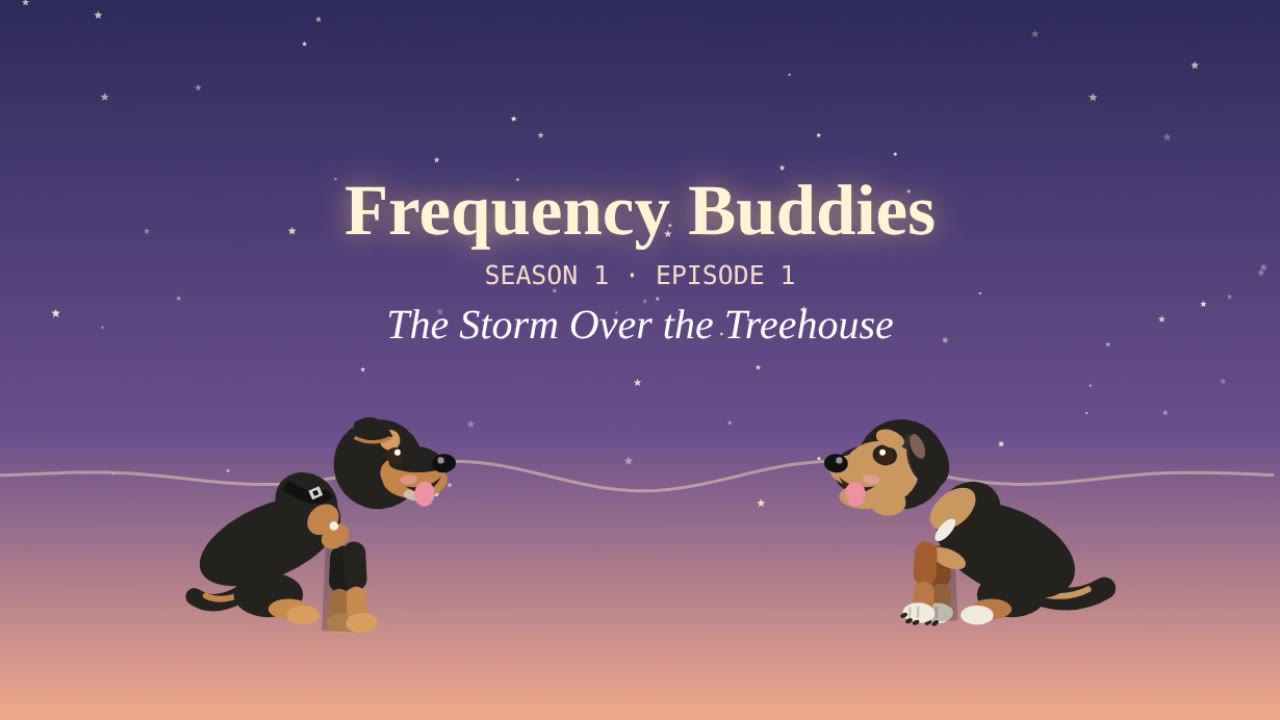
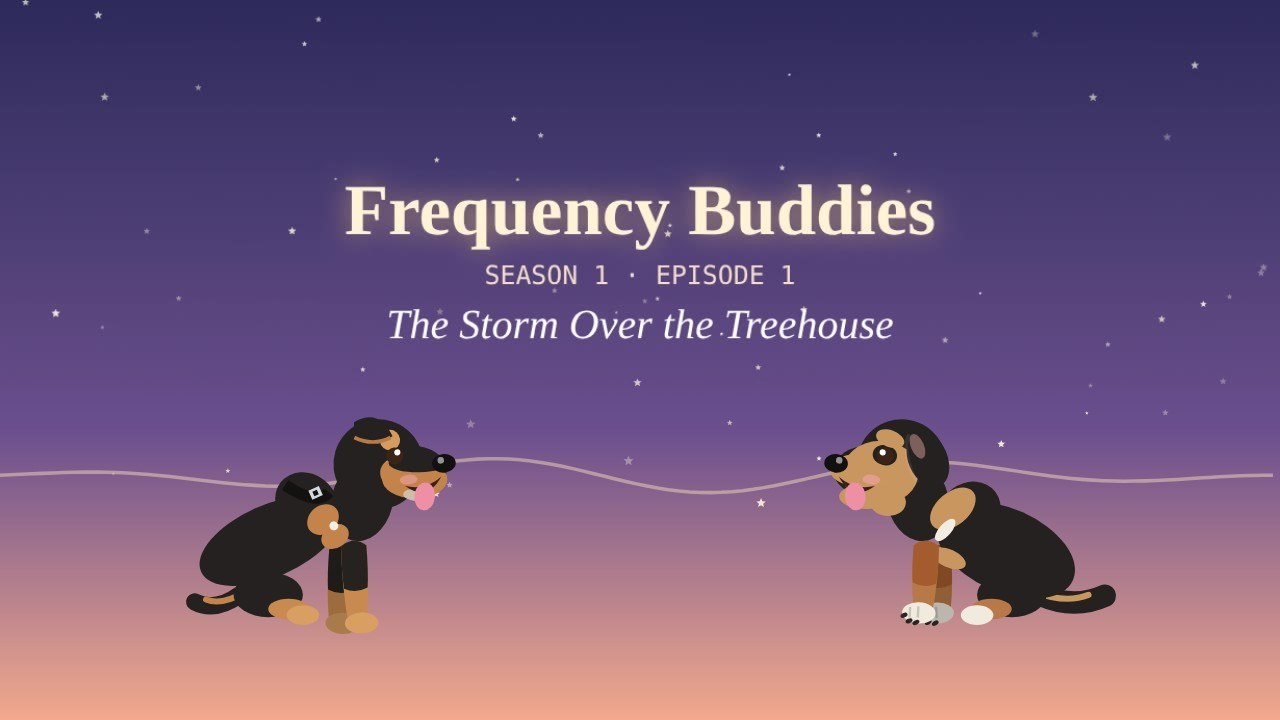
Cartoon pups smooth everywhere they appear and interact
pups.js (and its copy in night-garden.js): each leg is one soft tapered shape
with a curved sock line instead of two stacked tubes; the far legs are a
shade darker (no grey box behind them); a sitting pup has a neck so the head
sits on the body smoothly. This drawing runs the episodes, pal cam, games,
coin pusher, launch screen, app ad, Bears Dojo, start pages and the Night
Garden. Saved pictures redrawn from it: Season 1 and Season 2 posters, pal
cam poster, Get the app share image, and the home page pups (now lying apart,
not nose to nose). sw tol-v192.

Claude-Session: https://claude.ai/code/session_01F11x81sfGg3qnfmPYFW4i1

diff --git a/assets/js/night-garden.js b/assets/js/night-garden.js
@@ -1511,15 +1511,20 @@
     var lean = L.build === 'lean', LL = lean ? 15 : 12.5, BRX = lean ? 18.5 : 18, BRY = lean ? 8.8 : 10.2, BY = lean ? -21 : -18.5;
     function leg(x0, y0, ang, len, back) {
       ctx.save(); ctx.translate(x0, y0); ctx.rotate(ang);
-      var up = len * 0.5;
-      ctx.fillStyle = L.legUp; ctx.beginPath(); ctx.roundRect ? ctx.roundRect(-2.8, -2, 5.6, up + 3, 2.8) : ctx.rect(-2.8, -2, 5.6, up + 3); ctx.fill();
-      ctx.fillStyle = L.legLow; ctx.beginPath(); ctx.roundRect ? ctx.roundRect(-2.5, up, 5, len - up, 2.5) : ctx.rect(-2.5, up, 5, len - up); ctx.fill();
-      ctx.fillStyle = L.paw; ctx.beginPath(); ctx.ellipse(1, len, 3.9, 2.5, 0, 0, Math.PI * 2); ctx.fill();
+      // owner, Nov 1 2026: "make sure they look smooth everywhere": one soft, tapered leg (thick at the top, slimmer at the
+      // ankle) with a gently curved sock line and a round paw, instead of two stacked tubes; the far legs are a shade darker
+      // (no grey box behind them)
+      var up = len * 0.5, dk = back ? 0.22 : 0;
+      function sh(c) { if (!dk || c.charAt(0) !== '#') return c; var n = parseInt(c.slice(1), 16), k = 1 - dk; return 'rgb(' + Math.round((n >> 16) * k) + ',' + Math.round((n >> 8 & 255) * k) + ',' + Math.round((n & 255) * k) + ')'; }
+      ctx.fillStyle = sh(L.legLow); ctx.beginPath(); ctx.moveTo(-3.1, -1); ctx.quadraticCurveTo(-3.4, len * 0.5, -2.3, len - 0.6); ctx.lineTo(2.3, len - 0.6);
+      ctx.quadraticCurveTo(3.4, len * 0.5, 3.1, -1); ctx.quadraticCurveTo(0, -3.4, -3.1, -1); ctx.fill();
+      ctx.fillStyle = sh(L.legUp); ctx.beginPath(); ctx.moveTo(-3.1, -1); ctx.quadraticCurveTo(-3.3, up * 0.6, -2.9, up + 0.4); ctx.quadraticCurveTo(0, up + 1.8, 2.9, up + 0.4);
+      ctx.quadraticCurveTo(3.3, up * 0.6, 3.1, -1); ctx.quadraticCurveTo(0, -3.4, -3.1, -1); ctx.fill();
+      ctx.fillStyle = sh(L.paw); ctx.beginPath(); ctx.ellipse(1, len, 4.1, 2.6, 0, 0, Math.PI * 2); ctx.fill();
       if (L.nails) { // pale toes with little dark nails
         ctx.strokeStyle = 'rgba(0,0,0,0.16)'; ctx.lineWidth = 0.6; ctx.beginPath(); ctx.moveTo(1.2, len - 1.6); ctx.lineTo(1.2, len + 1.2); ctx.moveTo(3.2, len - 1.3); ctx.lineTo(3.2, len + 1.3); ctx.stroke();
         ctx.fillStyle = '#2A2422'; [[4.6, len + 0.8], [3.3, len + 2.1], [1.6, len + 2.4]].forEach(function (n) { ctx.beginPath(); ctx.ellipse(n[0], n[1], 0.9, 0.55, 0.5, 0, Math.PI * 2); ctx.fill(); });
       }
-      if (back) { ctx.fillStyle = 'rgba(10,8,8,0.22)'; ctx.fillRect(-4, -2, 9, len + 4); }
       ctx.restore();
     }
     var lie = pose === 'lie', bow = pose === 'bow', sit = pose === 'sit', wiggle = pose === 'wiggle', moving = pose === 'run' || wiggle;
@@ -1535,6 +1540,8 @@
     if (moving) { leg(-10, BY + 5, b * 0.8, LL, true); leg(10, BY + 5, a * 0.8, LL, true); }
     else if (sit) leg(9, -16, 0.05, LL + 2, true);
     else if (bow) leg(-11, -18, 0.05, LL + 4, true);
+    // sitting: a neck from the shoulders up into the head, behind the chest markings, so the head sits on the body smoothly (owner, Nov 1 2026)
+    if (sit) { ctx.fillStyle = BLACK; ctx.beginPath(); ctx.ellipse(14, -29, 7.5, 10, 0.25, 0, Math.PI * 2); ctx.fill(); }
     // body
     ctx.save(); ctx.rotate(bodyTilt);
     if (lie) {

diff --git a/assets/js/pups.js b/assets/js/pups.js
@@ -20,15 +20,20 @@
     var lean = L.build === 'lean', LL = lean ? 15 : 12.5, BRX = lean ? 18.5 : 18, BRY = lean ? 8.8 : 10.2, BY = lean ? -21 : -18.5;
     function leg(x0, y0, ang, len, back) {
       ctx.save(); ctx.translate(x0, y0); ctx.rotate(ang);
-      var up = len * 0.5;
-      ctx.fillStyle = L.legUp; ctx.beginPath(); ctx.roundRect ? ctx.roundRect(-2.8, -2, 5.6, up + 3, 2.8) : ctx.rect(-2.8, -2, 5.6, up + 3); ctx.fill();
-      ctx.fillStyle = L.legLow; ctx.beginPath(); ctx.roundRect ? ctx.roundRect(-2.5, up, 5, len - up, 2.5) : ctx.rect(-2.5, up, 5, len - up); ctx.fill();
-      ctx.fillStyle = L.paw; ctx.beginPath(); ctx.ellipse(1, len, 3.9, 2.5, 0, 0, Math.PI * 2); ctx.fill();
+      // owner, Nov 1 2026: "make sure they look smooth everywhere": one soft, tapered leg (thick at the top, slimmer at the
+      // ankle) with a gently curved sock line and a round paw, instead of two stacked tubes; the far legs are a shade darker
+      // (no grey box behind them)
+      var up = len * 0.5, dk = back ? 0.22 : 0;
+      function sh(c) { if (!dk || c.charAt(0) !== '#') return c; var n = parseInt(c.slice(1), 16), k = 1 - dk; return 'rgb(' + Math.round((n >> 16) * k) + ',' + Math.round((n >> 8 & 255) * k) + ',' + Math.round((n & 255) * k) + ')'; }
+      ctx.fillStyle = sh(L.legLow); ctx.beginPath(); ctx.moveTo(-3.1, -1); ctx.quadraticCurveTo(-3.4, len * 0.5, -2.3, len - 0.6); ctx.lineTo(2.3, len - 0.6);
+      ctx.quadraticCurveTo(3.4, len * 0.5, 3.1, -1); ctx.quadraticCurveTo(0, -3.4, -3.1, -1); ctx.fill();
+      ctx.fillStyle = sh(L.legUp); ctx.beginPath(); ctx.moveTo(-3.1, -1); ctx.quadraticCurveTo(-3.3, up * 0.6, -2.9, up + 0.4); ctx.quadraticCurveTo(0, up + 1.8, 2.9, up + 0.4);
+      ctx.quadraticCurveTo(3.3, up * 0.6, 3.1, -1); ctx.quadraticCurveTo(0, -3.4, -3.1, -1); ctx.fill();
+      ctx.fillStyle = sh(L.paw); ctx.beginPath(); ctx.ellipse(1, len, 4.1, 2.6, 0, 0, Math.PI * 2); ctx.fill();
       if (L.nails) { // pale toes with little dark nails
         ctx.strokeStyle = 'rgba(0,0,0,0.16)'; ctx.lineWidth = 0.6; ctx.beginPath(); ctx.moveTo(1.2, len - 1.6); ctx.lineTo(1.2, len + 1.2); ctx.moveTo(3.2, len - 1.3); ctx.lineTo(3.2, len + 1.3); ctx.stroke();
         ctx.fillStyle = '#2A2422'; [[4.6, len + 0.8], [3.3, len + 2.1], [1.6, len + 2.4]].forEach(function (n) { ctx.beginPath(); ctx.ellipse(n[0], n[1], 0.9, 0.55, 0.5, 0, Math.PI * 2); ctx.fill(); });
       }
-      if (back) { ctx.fillStyle = 'rgba(10,8,8,0.22)'; ctx.fillRect(-4, -2, 9, len + 4); }
       ctx.restore();
     }
     var lie = pose === 'lie', bow = pose === 'bow', sit = pose === 'sit', wiggle = pose === 'wiggle', moving = pose === 'run' || wiggle;
@@ -44,6 +49,8 @@
     if (moving) { leg(-10, BY + 5, b * 0.8, LL, true); leg(10, BY + 5, a * 0.8, LL, true); }
     else if (sit) leg(9, -16, 0.05, LL + 2, true);
     else if (bow) leg(-11, -18, 0.05, LL + 4, true);
+    // sitting: a neck from the shoulders up into the head, behind the chest markings, so the head sits on the body smoothly (owner, Nov 1 2026)
+    if (sit) { ctx.fillStyle = BLACK; ctx.beginPath(); ctx.ellipse(14, -29, 7.5, 10, 0.25, 0, Math.PI * 2); ctx.fill(); }
     // body
     ctx.save(); ctx.rotate(bodyTilt);
     if (lie) {

diff --git a/sw.js b/sw.js
@@ -9,7 +9,7 @@
    The Frequency Buddies episodes (/assets/js/buddies/) are small data files, saved up front so an episode
    plays offline; a future episode not in the list is saved the first time it's watched.
    Bump VERSION when the list below changes. */
-var VERSION = 'tol-v191';
+var VERSION = 'tol-v192';
 // A first visit saves only this small shell (so the offline page works). The full list below is saved only
 // once the site is installed as an app (site.js asks for it), so a visitor on a metered plan never
 // downloads megabytes they didn't ask for. Everything else is saved the first time it's used.
